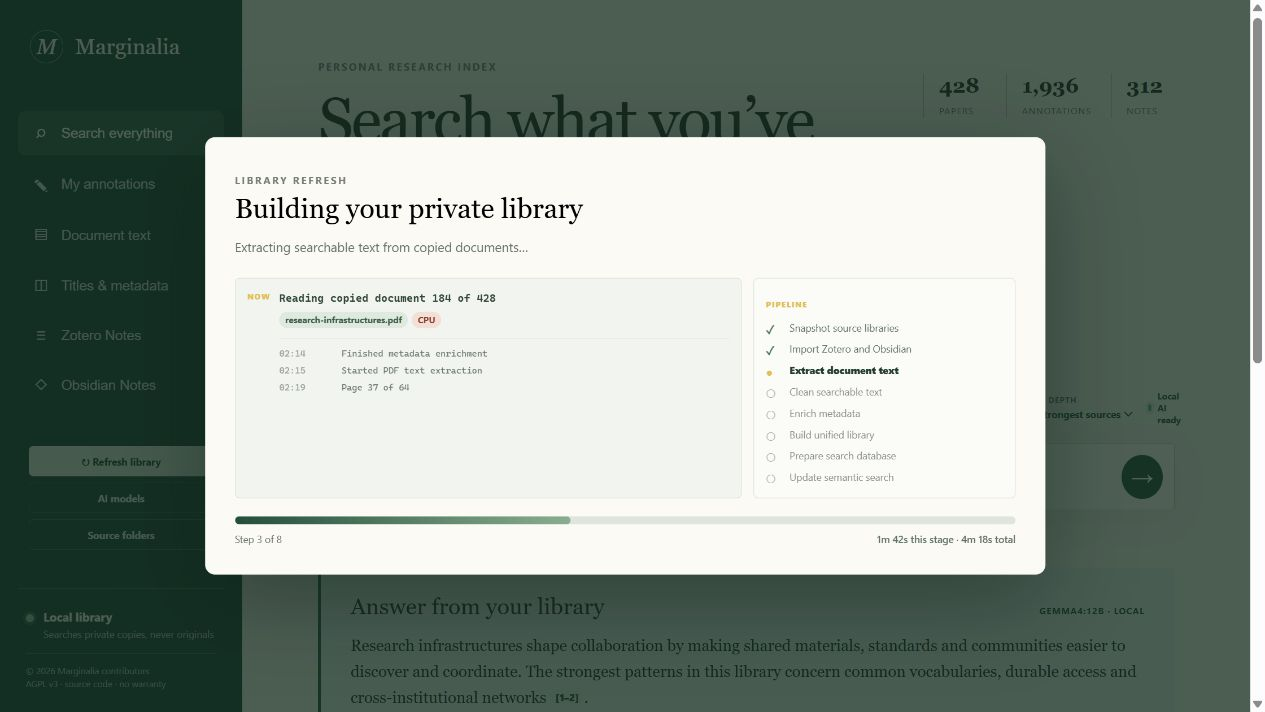
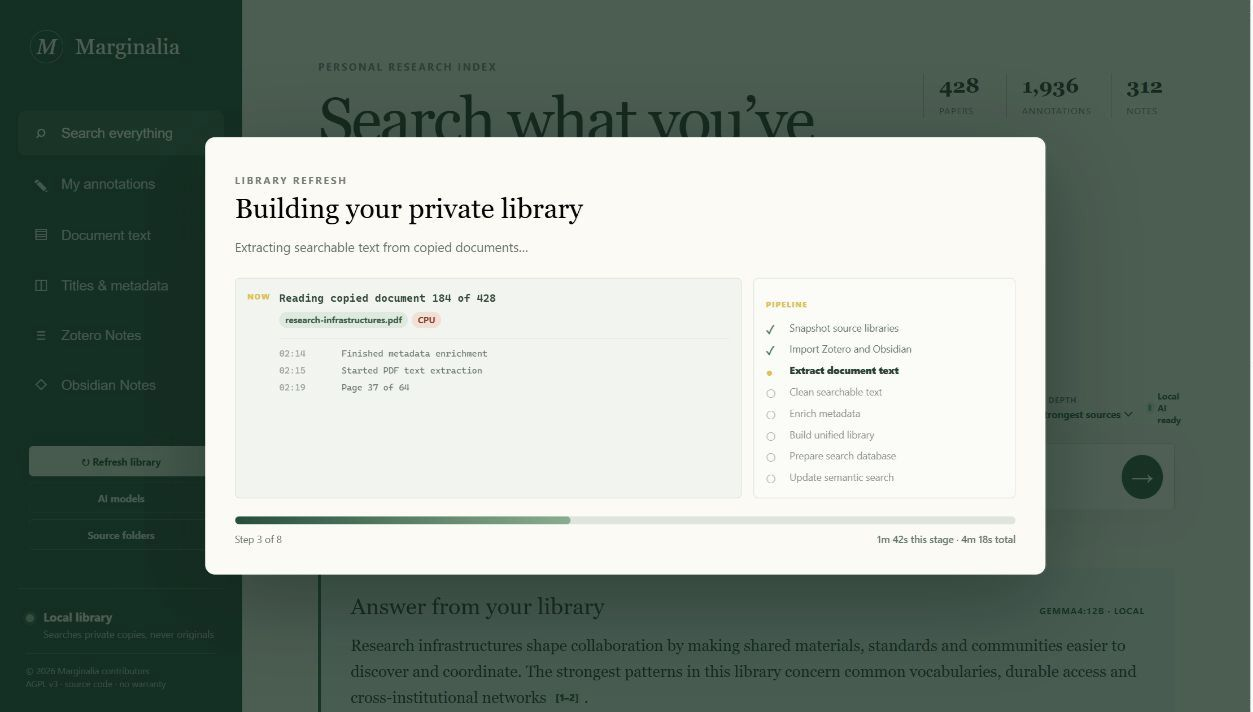
Fix screenshot proportions and crop browser chrome

diff --git a/index.html b/index.html
@@ -48,7 +48,7 @@
       </div>
       <figure class="hero-product">
         <div class="window-bar"><i></i><i></i><i></i><span>Marginalia · Local library</span></div>
-        <img src="assets/screenshot-search.png" alt="Marginalia search screen showing grouped results from a private research library" width="1440" height="900">
+        <img src="assets/screenshot-search.png" alt="Marginalia search screen showing grouped results from a private research library" width="1253" height="712">
         <figcaption><span class="status-pulse"></span> Runs locally on your computer</figcaption>
       </figure>
       <aside class="margin-note" aria-label="Summary">Your annotations,<br>PDFs and notes —<br><strong>finally together.</strong></aside>
@@ -174,7 +174,7 @@
           </ul>
         </div>
         <figure class="app-shot">
-          <img src="assets/screenshot-setup.png" alt="Connect your libraries screen in Marginalia, with optional Zotero and Obsidian folder choices" width="1440" height="900" loading="lazy">
+          <img src="assets/screenshot-setup.png" alt="Connect your libraries screen in Marginalia, with optional Zotero and Obsidian folder choices" width="1253" height="712" loading="lazy">
           <figcaption>On first start, choose at least one library and select “Copy and build my library”.</figcaption>
         </figure>
       </article>
@@ -188,7 +188,7 @@
           <div class="callout gold"><strong>Large libraries take time on the first run.</strong> Later refreshes reuse unchanged work wherever possible.</div>
         </div>
         <figure class="app-shot">
-          <img src="assets/screenshot-refresh.png" alt="Marginalia library refresh progress window with pipeline stages and progress bar" width="1440" height="900" loading="lazy">
+          <img src="assets/screenshot-refresh.png" alt="Marginalia library refresh progress window with pipeline stages and progress bar" width="1253" height="712" loading="lazy">
           <figcaption>The refresh dashboard shows the active stage and overall progress.</figcaption>
         </figure>
       </article>
@@ -206,7 +206,7 @@
           </div>
         </div>
         <figure class="app-shot">
-          <img src="assets/screenshot-search.png" alt="Marginalia search interface with search modes, filters and grouped document results" width="1440" height="900" loading="lazy">
+          <img src="assets/screenshot-search.png" alt="Marginalia search interface with search modes, filters and grouped document results" width="1253" height="712" loading="lazy">
           <figcaption>Search results are grouped by publication, with every matching passage close at hand.</figcaption>
         </figure>
       </article>
@@ -225,7 +225,7 @@
           <p class="fine-print">Each embedding model gets its own index and a visible build progress bar.</p>
         </div>
         <figure class="app-shot">
-          <img src="assets/screenshot-ai.png" alt="Marginalia AI models dialog showing optional embedding and answer model installations" width="1440" height="900" loading="lazy">
+          <img src="assets/screenshot-ai.png" alt="Marginalia AI models dialog showing optional embedding and answer model installations" width="1253" height="712" loading="lazy">
           <figcaption>Installed models remain manageable from the application interface.</figcaption>
         </figure>
       </article>

diff --git a/styles.css b/styles.css
@@ -16,7 +16,7 @@
 * { box-sizing: border-box; }
 html { scroll-behavior: smooth; }
 body { margin: 0; background: var(--paper); color: var(--ink); font-family: var(--sans); }
-img { display: block; max-width: 100%; }
+img { display: block; max-width: 100%; height: auto; }
 a { color: inherit; }
 button, a { -webkit-tap-highlight-color: transparent; }
 :focus-visible { outline: 3px solid var(--gold); outline-offset: 4px; }
